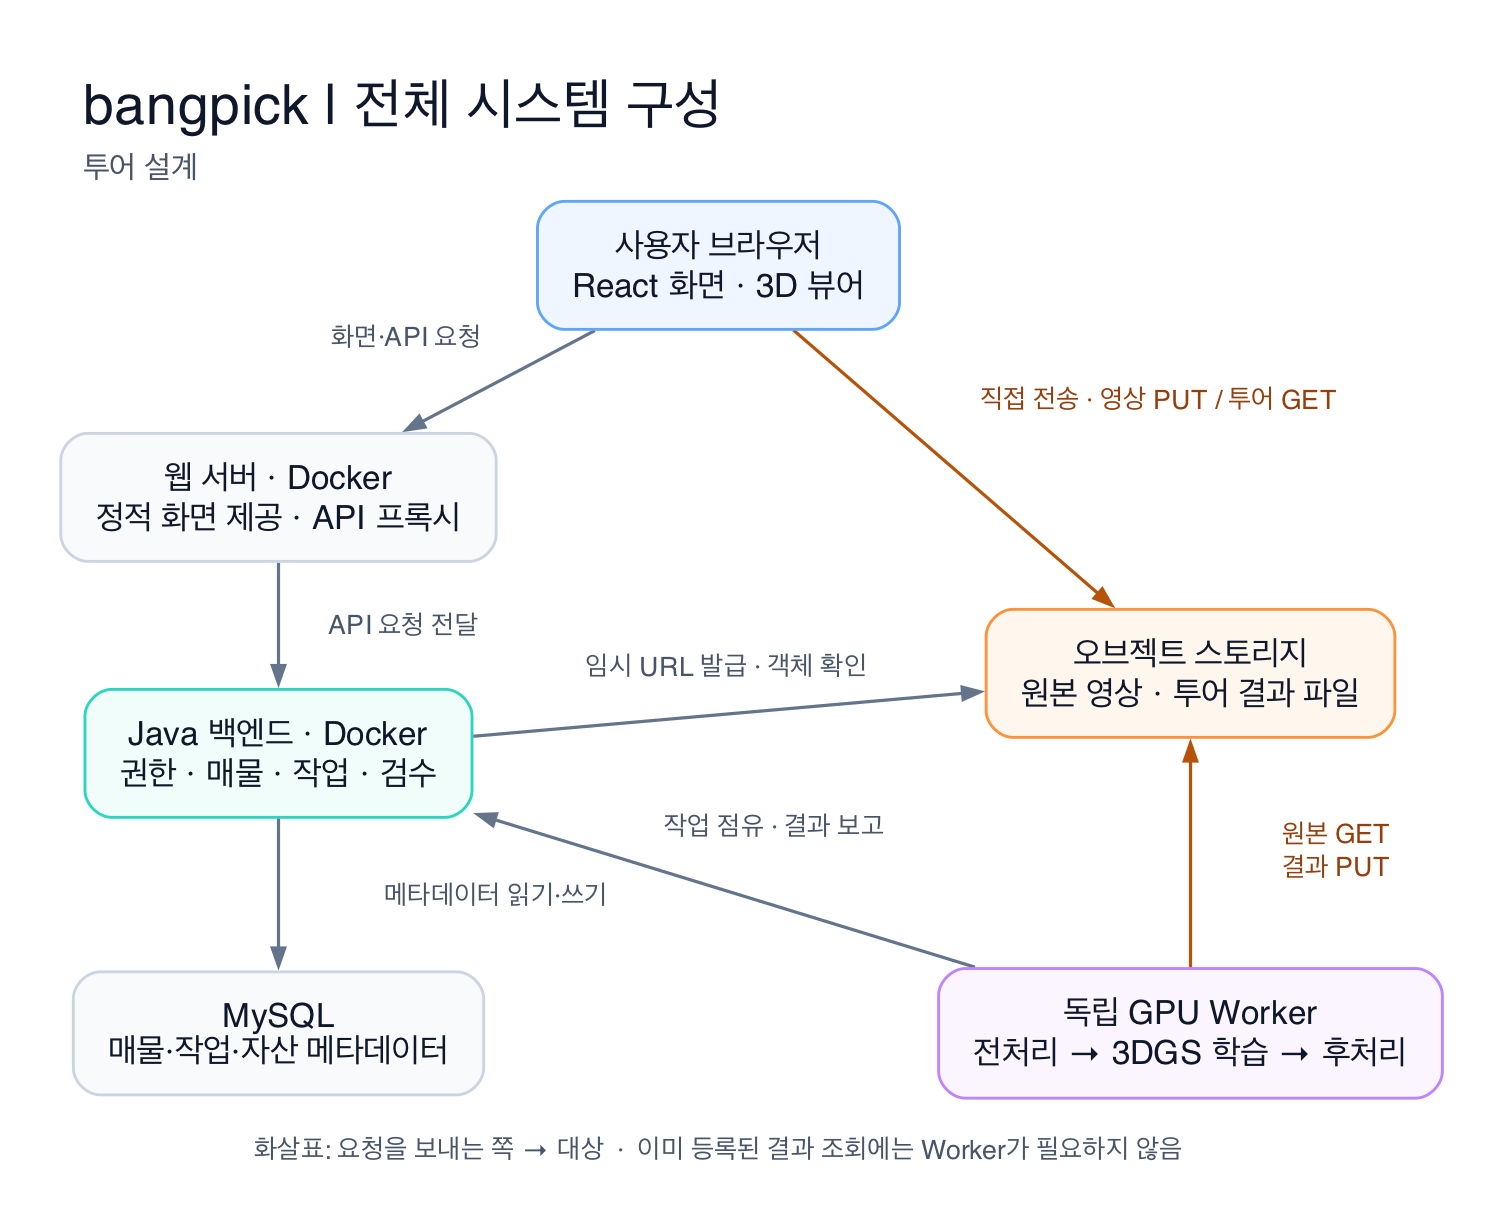
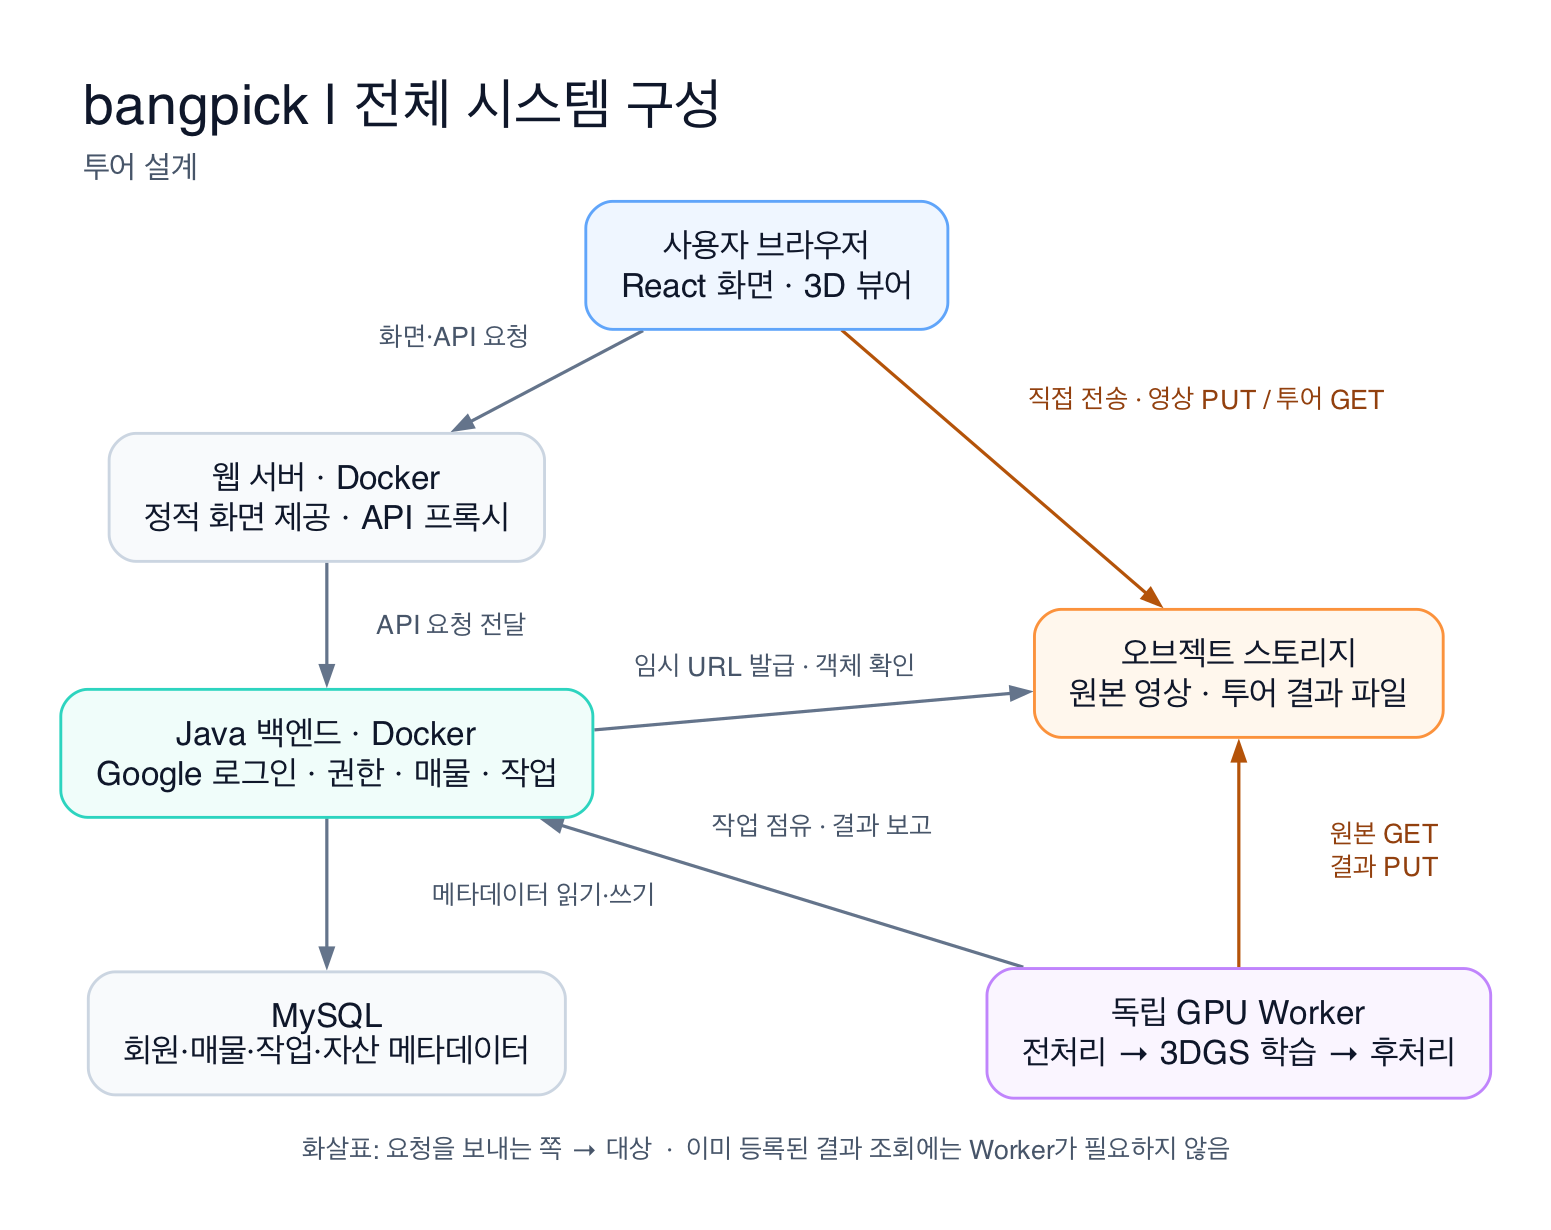
docs: Google 로그인 설정과 회원 권한 흐름 문서화
- OAuth 클라이언트 등록과 첫 관리자 지정 절차 추가
- 회원 세션·관리자 API 계약과 시스템 구성도 갱신

diff --git a/contracts/README.md b/contracts/README.md
@@ -2,13 +2,27 @@
 
 기본 경로는 `/api`입니다. `GET /api/actuator/health`는 DB 연결 상태를 포함하며 `/api/actuator/health/liveness`는 생존 확인 경로입니다.
 
+## 회원 세션과 관리자 API
+
+Google 로그인 시작 주소는 `GET /api/oauth2/authorization/google`입니다. Google 인증을 마친 브라우저는 콜백을 거쳐 설정된 웹 주소로 돌아옵니다. 브라우저는 API 요청에 세션 쿠키를 사용하고, 상태를 바꾸는 요청에는 `/api/auth/csrf`에서 받은 토큰을 지정된 헤더에 추가합니다.
+
+| HTTP·경로 | 접근 권한 | 성공 응답 |
+| --- | --- | --- |
+| `GET /api/auth/options` | 누구나 | `{loginPath}` · 비활성화 시 `null` |
+| `GET /api/me` | 로그인한 회원 | `{id, displayName, role}` · 역할은 `USER` 또는 `ADMIN` |
+| `GET /api/auth/csrf` | 로그인한 회원 | `{headerName, token}` |
+| `POST /api/auth/logout` | 세션의 CSRF 토큰 필요 | `204` |
+| `GET /api/admin/access` | 관리자 | `204` |
+
+관리자 API는 `/api/admin/**` 아래에 두며 백엔드가 요청 시점의 DB 역할을 확인합니다. 세션 없이 관리자 조회 시 `401`, 일반 회원이 접근하거나 필요한 CSRF 검증에 실패하면 `403`입니다.
+
 ## 영상·PLY 전송
 
 파일 본문은 브라우저·Worker와 오브젝트 스토리지 사이에서 직접 전송됩니다. 백엔드는 상태·소유자를 기록하고 지정한 객체에 대한 임시 접근을 발급합니다. 이 기능의 [개발 환경 설정](../backend/README.md#oci-파일-전송-개발-환경)은 별도로 켜야 합니다.
 
 API 호출 순서와 파일이 이동하는 방향은 [OCI 전송 흐름도](../docs/architecture.md#oci-영상ply-전송)에 있습니다.
 
-개발 중에는 브라우저 API와 내부 Worker API에 서로 다른 `Authorization: Bearer <token>`이 필요합니다. 브라우저 토큰은 하나의 개발 소유자에 대응합니다. Worker는 공유 개발 Worker 토큰으로 인증하고 특정 작업을 점유할 때 받은 `leaseId`로 그 작업에 대한 권한을 증명합니다. 두 토큰을 스토리지 요청에 전달하지 않습니다.
+브라우저 API는 회원 세션으로 인증하고 작업의 소유자 ID를 확인합니다. Google 로그인을 끈 로컬 환경에서는 브라우저의 개발 토큰을 공통 개발 소유자로 처리합니다. 내부 Worker API는 별도의 `Authorization: Bearer <token>`을 받고, 작업 점유 후에는 `leaseId`도 검증합니다. 백엔드의 세션 쿠키와 토큰은 스토리지 요청에 전달하지 않습니다.
 
 | 호출자 | HTTP·경로 | 요청 JSON | 성공 응답 |
 | --- | --- | --- | --- |

diff --git a/frontend/README.md b/frontend/README.md
@@ -9,11 +9,11 @@ npm run lint
 npm run build
 ```
 
-이 디렉토리에서 실행합니다. 권장 Node.js는 루트 `.node-version`을 따릅니다. 개발 주소는 `http://localhost:5173`이며 `/api` 요청은 로컬 백엔드 8080 포트로 프록시합니다. 개발 서버에 별도 프론트 환경변수는 필요하지 않습니다. 브라우저에 노출되는 `VITE_` 변수에는 비밀정보를 넣지 않습니다.
+이 디렉토리에서 실행합니다. 권장 Node.js는 루트 `.node-version`을 따릅니다. 개발 주소는 `http://localhost:8088`이며 `/api` 요청은 로컬 백엔드 8080 포트로 프록시합니다. Compose 프론트도 기본 포트로 8088을 사용하므로, Vite로 전환할 때는 저장소 루트에서 `docker compose stop frontend`를 먼저 실행합니다. 개발 서버에 별도 프론트 환경변수는 필요하지 않습니다. 브라우저에 노출되는 `VITE_` 변수에는 비밀정보를 넣지 않습니다.
 
 ## 영상 전송과 PLY 미리보기
 
-기본 화면에는 프로젝트 소개가 표시됩니다. 영상 전송 API와 뷰어는 매물 화면에 연결할 수 있도록 `src/media/`에 두었습니다. 실제 전송에는 [백엔드의 OCI 전송 기능](../backend/README.md#oci-파일-전송-개발-환경)이 켜져 있어야 합니다.
+기본 화면에는 프로젝트 소개와 [Google 로그인 설정](../backend/README.md#google-로그인-개발-환경)에 따른 로그인·로그아웃 조작이 표시됩니다. 영상 전송 API와 뷰어는 매물 화면에서 호출할 수 있도록 `src/media/`에 두었습니다. 실제 전송에는 [백엔드의 OCI 전송 기능](../backend/README.md#oci-파일-전송-개발-환경)이 켜져 있어야 합니다. 전송 함수의 인증 인자에 `null`을 전달하면 로그인 세션을 사용하며, 로컬 개발 토큰을 사용할 때는 토큰 문자열을 전달합니다.
 
 - `uploadSourceVideo`는 임시 URL로 영상을 올리고 작업 ID를 반환합니다. `confirmVideoUpload`로 저장 확인을 요청하며, 이 단계가 실패하면 파일을 다시 올리지 않고 확인만 재시도할 수 있습니다.
 - `getMediaJob`으로 작업 상태를 조회합니다. 결과가 준비되면 `requestResultPreview`가 반환한 전송 정보를 `ResultViewer`에 전달해 PLY를 내려받고 표시합니다.

diff --git a/docs/development.md b/docs/development.md
@@ -4,12 +4,12 @@
 
 | 영역 | 현재 코드에 포함된 기능 |
 | --- | --- |
-| 프론트엔드 | 영상 전송·작업 조회 함수, Spark·Three.js 기반 PLY 뷰어. 기본 화면은 프로젝트 소개 |
-| 백엔드 | 영상·PLY 전송 권한 발급·회수, 객체 크기 확인, MySQL 작업 상태와 결과 키 관리 |
+| 프론트엔드 | Google 로그인·로그아웃 조작, 영상 전송·작업 조회 함수, Spark·Three.js 기반 PLY 뷰어 |
+| 백엔드 | 회원 세션·관리자 접근 제어, 회원별 영상·PLY 접근, 객체 크기 확인, MySQL 작업 상태와 결과 키 관리 |
 | GPU Worker | 지정 작업 점유, 원본 다운로드, 로컬 PLY 업로드와 완료 보고 |
 | 로컬 인프라 | 웹·백엔드·MySQL Compose, Worker 별도 Compose와 GPU 할당 설정 |
 
-영상·PLY 전송 API는 기본으로 꺼져 있습니다. 개발 환경에서는 브라우저와 Worker에 서로 다른 개발 토큰을 사용합니다. 설정과 API 형식은 [백엔드 실행 안내](../backend/README.md#oci-파일-전송-개발-환경)와 [서비스 간 계약](../contracts/README.md#영상ply-전송)에 있습니다.
+Google 로그인과 OCI 전송은 각각 설정을 켜서 사용합니다. 환경변수와 관리자 지정은 [백엔드 실행 안내](../backend/README.md#google-로그인-개발-환경), API 형식은 [서비스 간 계약](../contracts/README.md)에 있습니다.
 
 ## 필요한 환경과 의존성
 
